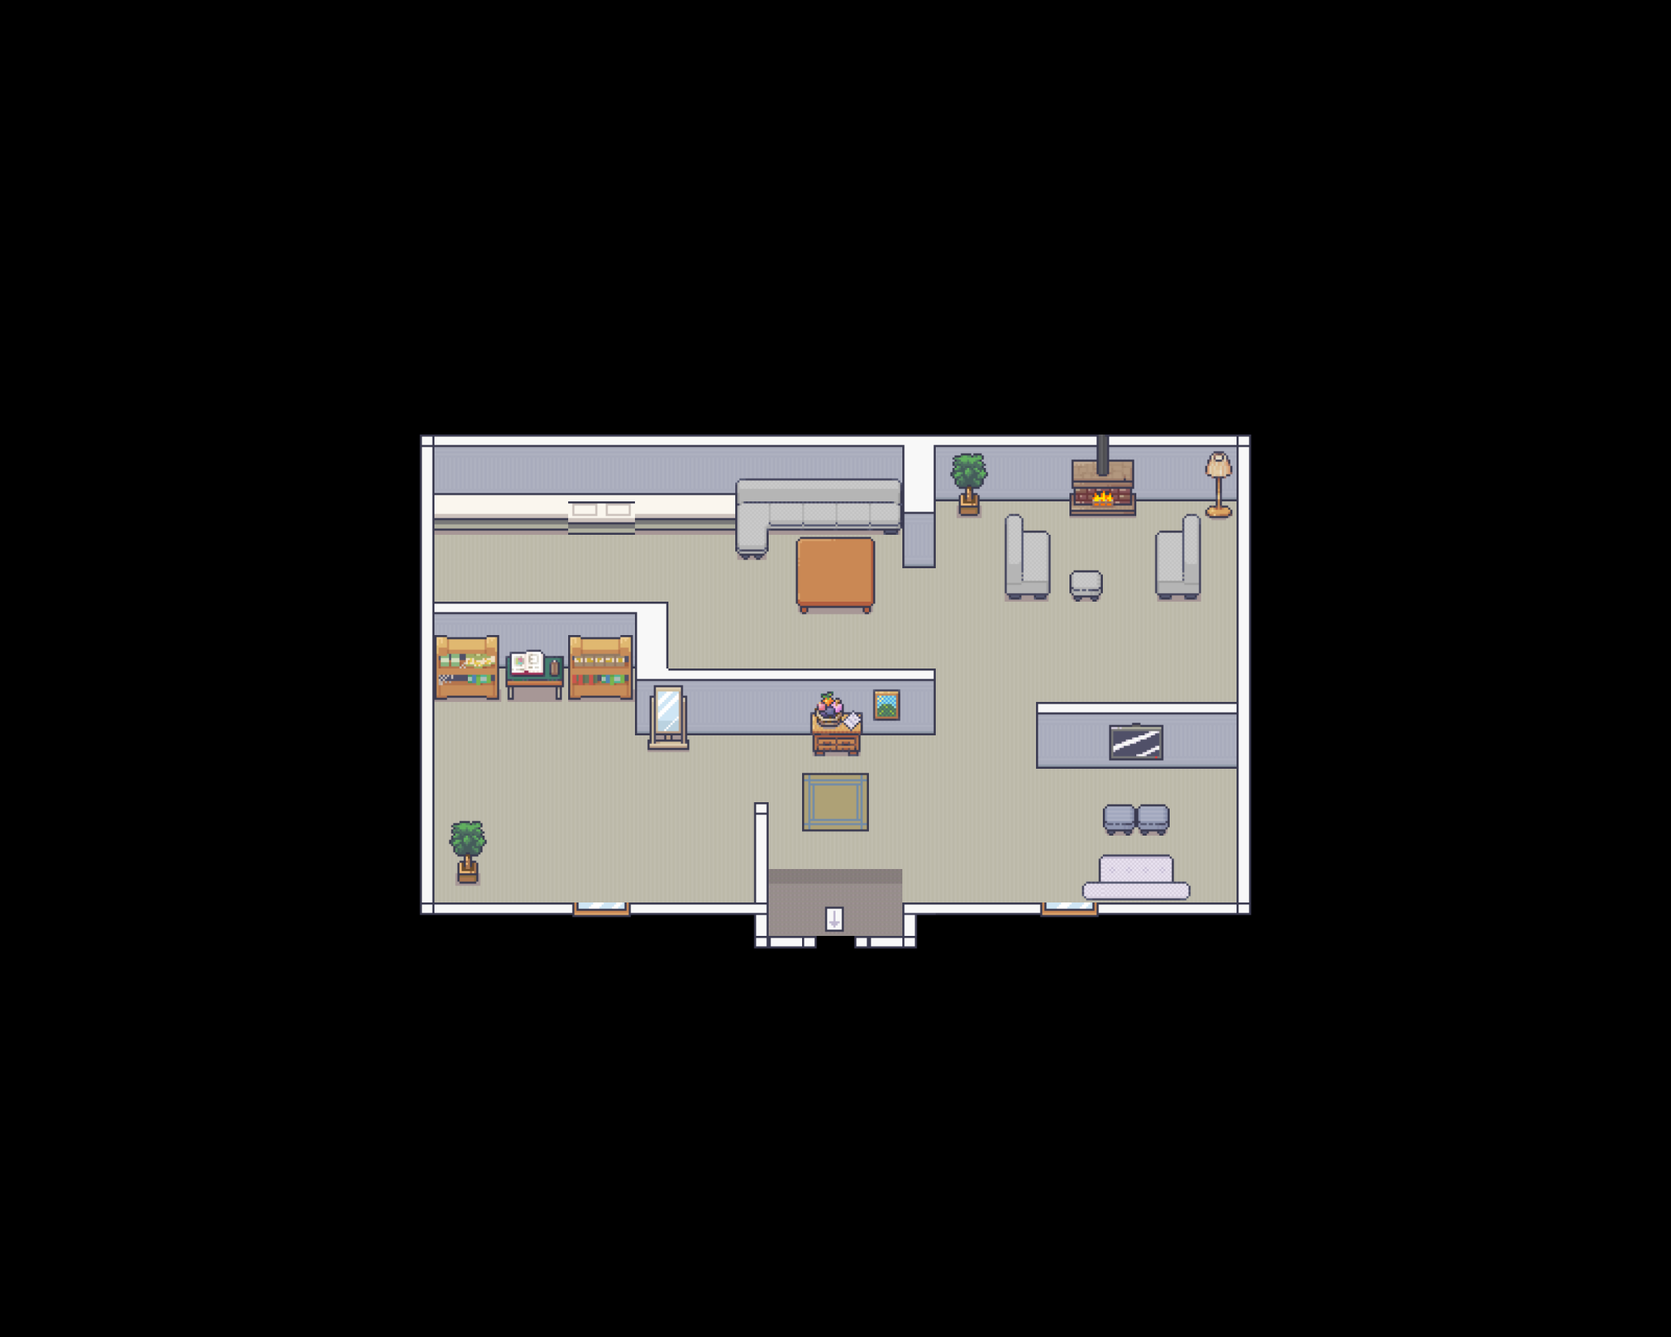
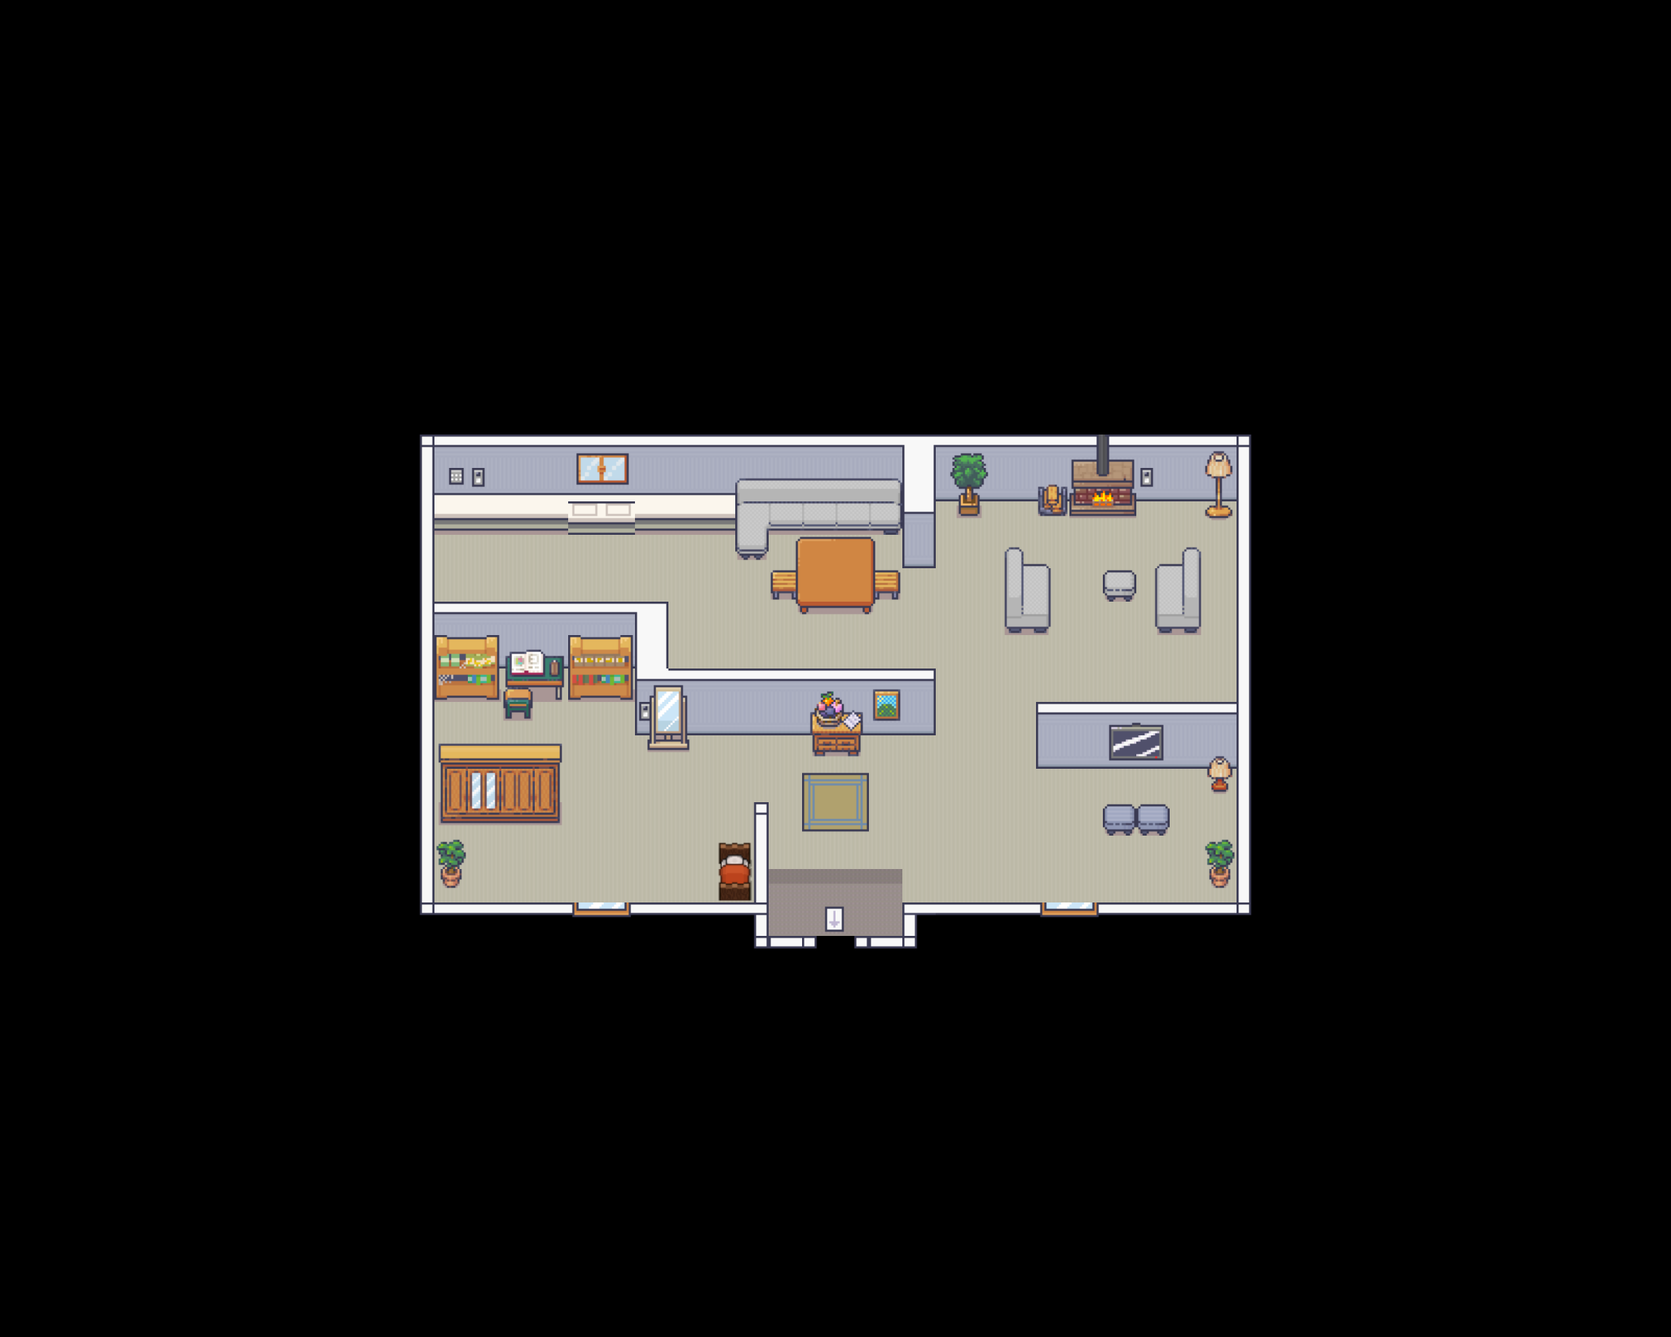
interior borders

diff --git a/index.js b/index.js
@@ -41,7 +41,7 @@ class Boundary {
     }
 
     draw(){
-        c.fillStyle = "rgba(255, 0,0,0)"
+        c.fillStyle = "red"//"rgba(255, 0,0,0)"
         c.fillRect(this.position.x, this.position.y, this.width, this.height)
     }
 }
@@ -109,9 +109,9 @@ collisionsMapInside.forEach((row, i) => {
     row.forEach((symbol, j) => {
         if (symbol == 856){
         indoorBoundaries.push(new Boundary({position: {
-            x: j * 48 +offset.in.x -5,
+            x: j * 48 +offset.in.x -6,
             y: i * 48 + offset.in.y 
-        }, width: 40, height: 40}))}
+        }, width: 42, height: 40}))}
         if (symbol == 1){
             indoorBoundaries.push(new Boundary({position: {
                 x: j * 48 +offset.in.x +5,
@@ -121,8 +121,65 @@ collisionsMapInside.forEach((row, i) => {
             indoorBoundaries.push(new Boundary({position: {
                 x: j * 48 +offset.in.x +20,
                 y: i * 48 + offset.in.y 
-            }, width: 2, height: 40}))}})})
-
+            }, width: 2, height: 40}))}
+         if (symbol == 3){
+            indoorBoundaries.push(new Boundary({position: {
+                x: j * 48 +offset.in.x,
+                y: i * 48 + offset.in.y -20
+            }, width: 40, height: 2}))}
+        if (symbol == 4){
+            indoorBoundaries.push(new Boundary({position: {
+                x: j * 48 +offset.in.x -3,
+                y: i * 48 + offset.in.y 
+            }, width: 31, height: 2}))}
+        if (symbol == 5){
+            indoorBoundaries.push(new Boundary({position: {
+                x: j * 48 +offset.in.x,
+                y: i * 48 + offset.in.y 
+            }, width: 50, height: 60}))}
+        if (symbol == 6){
+            indoorBoundaries.push(new Boundary({position: {
+                x: j * 48 +offset.in.x -22,
+                y: i * 48 + offset.in.y 
+            }, width: 50, height: 60}))}
+        if (symbol == 7){
+            indoorBoundaries.push(new Boundary({position: {
+                x: j * 48 +offset.in.x -20,
+                y: i * 48 + offset.in.y 
+            }, width: 40, height: 2}))}
+        if (symbol == 8){
+            indoorBoundaries.push(new Boundary({position: {
+                x: j * 48 +offset.in.x -5,
+                y: i * 48 + offset.in.y 
+            }, width: 38, height: 2}))}
+        if (symbol == 9){
+            indoorBoundaries.push(new Boundary({position: {
+                x: j * 48 +offset.in.x -15,
+                y: i * 48 + offset.in.y + 5
+            }, width: 105, height: 75}))}
+        if (symbol == 10){
+            indoorBoundaries.push(new Boundary({position: {
+                x: j * 48 +offset.in.x + 20,
+                y: i * 48 + offset.in.y 
+            }, width: 16, height: 40}))}
+         if (symbol == 11){
+            indoorBoundaries.push(new Boundary({position: {
+                x: j * 48 +offset.in.x + 18,
+                y: i * 48 + offset.in.y +2
+            }, width: 40, height: 2}))}
+            
+        if (symbol == 12){
+            indoorBoundaries.push(new Boundary({position: {
+                x: j * 48 +offset.in.x + 18,
+                y: i * 48 + offset.in.y +38
+            }, width: 40, height: 2}))}
+        if (symbol == 13){
+            indoorBoundaries.push(new Boundary({position: {
+                x: j * 48 +offset.in.x -5,
+                y: i * 48 + offset.in.y 
+            }, width: 44, height: 40}))}
+        })})
+            
 class Pokemon {
     constructor({image, position}){
         this.position = position
@@ -219,20 +276,27 @@ const insideBackground = new Sprite ({position:{
     y:offset.in.y  
 }, image: insideImage}) 
 
+const insideForeGround = new Image()
+insideForeGround.src = './img/foregroundInside.png'
+const insideForeground = new Sprite({
+    position: {x:offset.in.x-10,
+    y:offset.in.y  
+}, image: insideForeGround})
+
 const testBoundary = new descriptiveObject({position: {
     x: 17 * 48 +offset.out.x  +40,
     y: 20 * 48 + offset.out.y 
-}, width: 1, height: 40, text: "Lev's island"})
+}, width: 1, height: 40, text: "Lev's Island"})
 
 const sign = new descriptiveObject({position: {
     x: 28 * 48 +offset.out.x + 5,
     y: 17 * 48 + offset.out.y -45
-}, width: 40, height: 2, text: "The Field of Flowers"})
+}, width: 40, height: 2, text: "The Field of Flowers \u2740 \u273F"})
 
 const mailbox = new descriptiveObject({position: {
     x: 20 * 48 +offset.out.x + 10,
     y: 15 * 48 + offset.out.y 
-}, width: 30, height: 2, text: "S + L \&#9829"})
+}, width: 30, height: 2, text: "S + L <br>\u2665"})
 
 const keys = {
     ArrowUp: {
@@ -254,7 +318,7 @@ const door = new Boundary({position: {
     x: 19 * 48 +offset.out.x,
     y: 13 * 48 + offset.out.y 
     
-}, width: 40, height: 45})
+}, width: 40, height: 50})
 
 const doorBoundary = new Boundary({
     position: {
@@ -270,11 +334,11 @@ const openingDoor = new Door({
 })
 const doorToOutside = new Boundary({position: {
     x: 25 * 48 +offset.in.x -10,
-    y: 27 * 48 + offset.in.y -30
+    y: 27 * 48 + offset.in.y -40
     
 }, width: 40, height: 40})
 const objects = [testBoundary, sign, mailbox]
-const movables = [background, ...boundaries, foreground, poke, ...oceans, insideBackground, ...indoorBoundaries, door, doorToOutside, openingDoor,...objects, doorBoundary]
+const movables = [background, ...boundaries, foreground, poke, ...oceans, insideBackground, ...indoorBoundaries, door, doorToOutside, openingDoor,...objects, doorBoundary, insideForeground]
 function rectangularCollision ({rectangle1, rectangle2}){
     return (
         rectangle1.position.x + rectangle1.width >= rectangle2.position.x && 
@@ -284,9 +348,15 @@ function rectangularCollision ({rectangle1, rectangle2}){
     )
 
 }
+const characterLocation = {
+    location: false
+}
+let transitioning = false
 function fade(){
     gsap.to('#transitionImage', {
         opacity: 0, duration:2, onComplete: function() {
+
+            
             // This code will execute when the animation is complete
             console.log("Animation is complete");
         
@@ -296,7 +366,9 @@ function fade(){
 let isTextDisplayed = false;
 class outsideMap {
     draw(){
-        
+        if (transitioning){
+            return
+        }
         background.draw()
    
         c.imageSmoothingEnabled = false
@@ -342,11 +414,14 @@ class outsideMap {
                     x: door.position.x,
                     y: door.position.y +2
                 }}
-            })){
+            })){transitioning = true
+                //player.frames.val = 0
                 gsap.to(('#transitionImage'), {
                     opacity: 1, duration:1, onComplete: function(){fade()
+                        
                         characterLocation.location = true
                         player.image = player.sprites.down
+                        transitioning = false
                         return
                         } 
                 })
@@ -514,7 +589,8 @@ class outsideMap {
         } 
 
         if (!moving) {
-        player.frames.val = 0
+            player.frames.val = 0
+
         }
         
         if (!isTextDisplayed) {
@@ -526,18 +602,20 @@ class outsideMap {
 
 const outside = new outsideMap()
 
-const characterLocation = {
-    location: false
-}
+
 
 class insideMap {
     draw(){
+        if (transitioning){
+            return
+        }
         insideBackground.draw()
         indoorBoundaries.forEach(boundary => {
             boundary.draw()
         })
         playerInside.draw()
-          
+
+        insideForeground.draw()  
         let moving  =  true 
         playerInside.moving = false
         if (keys.ArrowUp.pressed && lastKey=='ArrowUp'){
@@ -557,6 +635,10 @@ class insideMap {
                     break
                 }
             } 
+            if (moving) {
+                // Player is moving, reset the flag
+                isTextDisplayed = false;
+            }
             if (moving){movables.forEach((movable)=>{
                 movable.position.y +=2
             })}
@@ -584,15 +666,21 @@ class insideMap {
                     x: doorToOutside.position.x,
                     y: doorToOutside.position.y +2
                 }}
-            })){
+            })){transitioning = true
+                //player.frames.val = 0
                 gsap.to(('#transitionImage'), {
                     opacity: 1, duration:1, onComplete: function(){fade()
                         characterLocation.location = false
                         playerInside.image = playerInside.sprites.up
+                        transitioning = false
                         return
                         } 
                 })
                
+            }
+            if (moving) {
+                // Player is moving, reset the flag
+                isTextDisplayed = false;
             }
             if (moving){movables.forEach((movable)=>{
                 movable.position.y -=2
@@ -614,6 +702,10 @@ class insideMap {
                     break
                 }
             }
+            if (moving) {
+                // Player is moving, reset the flag
+                isTextDisplayed = false;
+            }
             if (moving){movables.forEach((movable)=>{
                 movable.position.x +=2
             })}
@@ -634,6 +726,10 @@ class insideMap {
                     break
                 }
             }
+            if (moving) {
+                // Player is moving, reset the flag
+                isTextDisplayed = false;
+            }
             if (moving){movables.forEach((movable)=>{
                 movable.position.x -=2
             })}
@@ -642,7 +738,10 @@ class insideMap {
         if (!moving) {
             playerInside.frames.val = 0
         }
-
+        if (!isTextDisplayed) {
+            document.querySelector('#textDiv').style.display = 'none';
+            document.querySelector('#dialogueBox').innerHTML = "";
+        }
 
     }
 }
@@ -650,7 +749,7 @@ const inside = new insideMap()
 function animate(){
     window.requestAnimationFrame(animate)
 
-
+    
     if (characterLocation.location == false){
        
         outside.draw()

diff --git a/indoorCollisions.js b/indoorCollisions.js
@@ -1,4 +1,4 @@
-const indoorCollisions = [0, 0, 0, 0, 0, 0, 0, 0, 0, 0, 0, 0, 0, 0, 0, 0, 0, 0, 0, 0, 0, 0, 0, 0, 0, 0, 0, 0, 0, 0, 0, 0, 0, 0, 0, 0, 0, 0, 0, 0, 0, 0, 0, 0, 0, 0, 0, 0, 0, 0,
+const indoorCollisions =  [0, 0, 0, 0, 0, 0, 0, 0, 0, 0, 0, 0, 0, 0, 0, 0, 0, 0, 0, 0, 0, 0, 0, 0, 0, 0, 0, 0, 0, 0, 0, 0, 0, 0, 0, 0, 0, 0, 0, 0, 0, 0, 0, 0, 0, 0, 0, 0, 0, 0,
     0, 0, 0, 0, 0, 0, 0, 0, 0, 0, 0, 0, 0, 0, 0, 0, 0, 0, 0, 0, 0, 0, 0, 0, 0, 0, 0, 0, 0, 0, 0, 0, 0, 0, 0, 0, 0, 0, 0, 0, 0, 0, 0, 0, 0, 0, 0, 0, 0, 0,
     0, 0, 0, 0, 0, 0, 0, 0, 0, 0, 0, 0, 0, 0, 0, 0, 0, 0, 0, 0, 0, 0, 0, 0, 0, 0, 0, 0, 0, 0, 0, 0, 0, 0, 0, 0, 0, 0, 0, 0, 0, 0, 0, 0, 0, 0, 0, 0, 0, 0,
     0, 0, 0, 0, 0, 0, 0, 0, 0, 0, 0, 0, 0, 0, 0, 0, 0, 0, 0, 0, 0, 0, 0, 0, 0, 0, 0, 0, 0, 0, 0, 0, 0, 0, 0, 0, 0, 0, 0, 0, 0, 0, 0, 0, 0, 0, 0, 0, 0, 0,
@@ -11,23 +11,23 @@ const indoorCollisions = [0, 0, 0, 0, 0, 0, 0, 0, 0, 0, 0, 0, 0, 0, 0, 0, 0, 0, 
     0, 0, 0, 0, 0, 0, 0, 0, 0, 0, 0, 0, 0, 0, 0, 0, 0, 0, 0, 0, 0, 0, 0, 0, 0, 0, 0, 0, 0, 0, 0, 0, 0, 0, 0, 0, 0, 0, 0, 0, 0, 0, 0, 0, 0, 0, 0, 0, 0, 0,
     0, 0, 0, 0, 0, 0, 0, 0, 0, 0, 0, 0, 0, 0, 0, 0, 0, 0, 0, 0, 0, 0, 0, 0, 0, 0, 0, 0, 0, 0, 0, 0, 0, 0, 0, 0, 0, 0, 0, 0, 0, 0, 0, 0, 0, 0, 0, 0, 0, 0,
     0, 0, 0, 0, 0, 0, 0, 0, 0, 0, 0, 0, 0, 0, 0, 0, 0, 0, 0, 0, 0, 0, 0, 0, 0, 0, 0, 0, 0, 0, 0, 0, 0, 0, 0, 0, 0, 0, 0, 0, 0, 0, 0, 0, 0, 0, 0, 0, 0, 0,
-    0, 0, 0, 0, 0, 0, 0, 0, 0, 0, 0, 0, 856, 0, 0, 0, 0, 0, 0, 0, 0, 0, 0, 0, 0, 0, 0, 0, 0, 0, 0, 0, 0, 0, 0, 0, 0, 0, 0, 0, 0, 0, 0, 0, 0, 0, 0, 0, 0, 0,
-    0, 0, 0, 0, 0, 0, 0, 0, 0, 0, 0, 0, 856, 0, 0, 0, 0, 0, 0, 0, 0, 0, 0, 0, 0, 0, 0, 0, 856, 856, 856, 856, 856, 856, 856, 856, 856, 0, 0, 0, 0, 0, 0, 0, 0, 0, 0, 0, 0, 0,
-    0, 0, 0, 0, 0, 0, 0, 0, 0, 0, 0, 0, 856, 856, 856, 856, 856, 856, 856, 856, 856, 856, 0, 856, 856, 856, 856, 0, 0, 0, 0, 0, 0, 0, 0, 0, 0, 856, 0, 0, 0, 0, 0, 0, 0, 0, 0, 0, 0, 0,
-    0, 0, 0, 0, 0, 0, 0, 0, 0, 0, 0, 0, 856, 0, 0, 0, 0, 0, 0, 0, 0, 0, 856, 0, 856, 856, 0, 856, 0, 0, 856, 0, 0, 0, 0, 856, 0, 856, 0, 0, 0, 0, 0, 0, 0, 0, 0, 0, 0, 0,
-    0, 0, 0, 0, 0, 0, 0, 0, 0, 0, 0, 0, 856, 0, 0, 0, 0, 0, 0, 0, 0, 0, 0, 0, 856, 856, 0, 0, 0, 0, 856, 0, 856, 0, 0, 856, 0, 856, 0, 0, 0, 0, 0, 0, 0, 0, 0, 0, 0, 0,
-    0, 0, 0, 0, 0, 0, 0, 0, 0, 0, 0, 0, 856, 856, 856, 856, 856, 856, 856, 856, 0, 0, 0, 0, 0, 0, 0, 0, 0, 0, 0, 0, 0, 0, 0, 0, 0, 856, 0, 0, 0, 0, 0, 0, 0, 0, 0, 0, 0, 0,
-    0, 0, 0, 0, 0, 0, 0, 0, 0, 0, 0, 0, 856, 856, 856, 856, 856, 856, 856, 856, 0, 0, 0, 0, 0, 0, 0, 0, 0, 0, 0, 0, 0, 0, 0, 0, 0, 856, 0, 0, 0, 0, 0, 0, 0, 0, 0, 0, 0, 0,
-    0, 0, 0, 0, 0, 0, 0, 0, 0, 0, 0, 0, 856, 0, 0, 0, 0, 0, 0, 856, 856, 856, 856, 856, 856, 856, 856, 856, 0, 0, 0, 0, 0, 0, 0, 0, 0, 856, 0, 0, 0, 0, 0, 0, 0, 0, 0, 0, 0, 0,
-    0, 0, 0, 0, 0, 0, 0, 0, 0, 0, 0, 0, 856, 0, 0, 0, 0, 0, 0, 0, 0, 0, 0, 0, 856, 856, 0, 0, 0, 0, 0, 0, 0, 0, 0, 0, 0, 856, 0, 0, 0, 0, 0, 0, 0, 0, 0, 0, 0, 0,
-    0, 0, 0, 0, 0, 0, 0, 0, 0, 0, 0, 0, 856, 0, 0, 0, 0, 0, 0, 0, 0, 0, 0, 0, 0, 0, 0, 0, 0, 0, 0, 856, 856, 856, 856, 856, 856, 856, 0, 0, 0, 0, 0, 0, 0, 0, 0, 0, 0, 0,
+    0, 0, 0, 0, 0, 0, 0, 0, 0, 0, 0, 0, 856, 0, 0, 0, 0, 0, 0, 0, 0, 0, 0, 0, 0, 0, 0, 0, 856, 856, 856, 856, 0, 0, 856, 856, 0, 0, 0, 0, 0, 0, 0, 0, 0, 0, 0, 0, 0, 0,
+    0, 0, 0, 0, 0, 0, 0, 0, 0, 0, 0, 0, 856, 856, 856, 856, 856, 0, 0, 856, 856, 856, 0, 856, 856, 856, 856, 856, 2, 1, 7, 856, 856, 856, 4, 4, 856, 0, 0, 0, 0, 0, 0, 0, 0, 0, 0, 0, 0, 0,
+    0, 0, 0, 0, 0, 0, 0, 0, 0, 0, 0, 0, 856, 0, 0, 0, 0, 4, 4, 0, 0, 0, 856, 0, 0, 0, 0, 856, 0, 0, 0, 0, 0, 0, 0, 0, 0, 856, 0, 0, 0, 0, 0, 0, 0, 0, 0, 0, 0, 0,
+    0, 0, 0, 0, 0, 0, 0, 0, 0, 0, 0, 0, 856, 0, 0, 0, 0, 0, 0, 0, 0, 0, 0, 0, 9, 0, 0, 8, 0, 0, 0, 0, 0, 0, 0, 0, 0, 856, 0, 0, 0, 0, 0, 0, 0, 0, 0, 0, 0, 0,
+    0, 0, 0, 0, 0, 0, 0, 0, 0, 0, 0, 0, 856, 0, 0, 0, 0, 0, 0, 0, 0, 0, 0, 0, 0, 0, 0, 0, 0, 0, 5, 0, 0, 4, 0, 6, 0, 856, 0, 0, 0, 0, 0, 0, 0, 0, 0, 0, 0, 0,
     0, 0, 0, 0, 0, 0, 0, 0, 0, 0, 0, 0, 856, 0, 0, 0, 0, 0, 0, 0, 0, 0, 0, 0, 0, 0, 0, 0, 0, 0, 0, 0, 0, 0, 0, 0, 0, 856, 0, 0, 0, 0, 0, 0, 0, 0, 0, 0, 0, 0,
-    0, 0, 0, 0, 0, 0, 0, 0, 0, 0, 0, 0, 856, 0, 0, 0, 0, 0, 0, 0, 0, 0, 856, 0, 0, 0, 0, 0, 0, 0, 0, 0, 0, 856, 856, 0, 0, 856, 0, 0, 0, 0, 0, 0, 0, 0, 0, 0, 0, 0,
-    0, 0, 0, 0, 0, 0, 0, 0, 0, 0, 0, 0, 856, 0, 0, 0, 0, 0, 0, 0, 0, 0, 856, 0, 0, 0, 0, 0, 0, 0, 0, 0, 0, 0, 0, 0, 0, 856, 0, 0, 0, 0, 0, 0, 0, 0, 0, 0, 0, 0,
-    0, 0, 0, 0, 0, 0, 0, 0, 0, 0, 0, 0, 856, 0, 0, 0, 0, 0, 0, 0, 0, 0, 856, 0, 0, 0, 0, 0, 0, 0, 0, 0, 0, 856, 856, 0, 0, 856, 0, 0, 0, 0, 0, 0, 0, 0, 0, 0, 0, 0,
+    0, 0, 0, 0, 0, 0, 0, 0, 0, 0, 0, 0, 856, 856, 856, 856, 856, 856, 856, 13, 0, 0, 0, 0, 0, 0, 0, 0, 0, 0, 0, 0, 0, 0, 0, 0, 0, 856, 0, 0, 0, 0, 0, 0, 0, 0, 0, 0, 0, 0,
+    0, 0, 0, 0, 0, 0, 0, 0, 0, 0, 0, 0, 856, 4, 4, 0, 0, 4, 4, 13, 0, 0, 0, 0, 0, 0, 0, 0, 0, 0, 0, 0, 0, 0, 0, 0, 0, 856, 0, 0, 0, 0, 0, 0, 0, 0, 0, 0, 0, 0,
+    0, 0, 0, 0, 0, 0, 0, 0, 0, 0, 0, 0, 856, 0, 0, 0, 0, 0, 0, 856, 856, 4, 4, 4, 13, 856, 4, 8, 0, 0, 0, 0, 0, 0, 0, 0, 0, 856, 0, 0, 0, 0, 0, 0, 0, 0, 0, 0, 0, 0,
+    0, 0, 0, 0, 0, 0, 0, 0, 0, 0, 0, 0, 856, 0, 0, 0, 0, 0, 0, 0, 0, 0, 0, 0, 0, 0, 0, 0, 0, 0, 0, 8, 4, 4, 4, 4, 856, 856, 0, 0, 0, 0, 0, 0, 0, 0, 0, 0, 0, 0,
+    0, 0, 0, 0, 0, 0, 0, 0, 0, 0, 0, 0, 856, 856, 856, 856, 856, 0, 0, 0, 0, 0, 0, 0, 0, 0, 0, 0, 0, 0, 0, 0, 0, 0, 0, 0, 0, 856, 0, 0, 0, 0, 0, 0, 0, 0, 0, 0, 0, 0,
+    0, 0, 0, 0, 0, 0, 0, 0, 0, 0, 0, 0, 856, 0, 0, 0, 0, 0, 0, 0, 0, 0, 10, 0, 0, 0, 0, 0, 0, 0, 0, 0, 0, 4, 4, 0, 0, 856, 0, 0, 0, 0, 0, 0, 0, 0, 0, 0, 0, 0,
+    0, 0, 0, 0, 0, 0, 0, 0, 0, 0, 0, 0, 856, 0, 0, 0, 0, 0, 0, 0, 0, 11, 10, 0, 0, 0, 0, 0, 0, 0, 0, 0, 0, 0, 0, 0, 0, 856, 0, 0, 0, 0, 0, 0, 0, 0, 0, 0, 0, 0,
+    0, 0, 0, 0, 0, 0, 0, 0, 0, 0, 0, 0, 856, 856, 0, 0, 0, 0, 0, 0, 0, 12, 10, 0, 0, 0, 0, 0, 0, 0, 0, 0, 0, 0, 0, 0, 856, 856, 0, 0, 0, 0, 0, 0, 0, 0, 0, 0, 0, 0,
     0, 0, 0, 0, 0, 0, 0, 0, 0, 0, 0, 0, 0, 856, 856, 856, 856, 856, 856, 856, 856, 856, 856, 0, 0, 0, 0, 856, 856, 856, 856, 856, 856, 856, 856, 856, 856, 0, 0, 0, 0, 0, 0, 0, 0, 0, 0, 0, 0, 0,
     0, 0, 0, 0, 0, 0, 0, 0, 0, 0, 0, 0, 0, 0, 0, 0, 0, 0, 0, 0, 0, 0, 0, 856, 1, 2, 856, 0, 0, 0, 0, 0, 0, 0, 0, 0, 0, 0, 0, 0, 0, 0, 0, 0, 0, 0, 0, 0, 0, 0,
-    0, 0, 0, 0, 0, 0, 0, 0, 0, 0, 0, 0, 0, 0, 0, 0, 0, 0, 0, 0, 0, 0, 0, 0, 0, 856, 856, 0, 0, 0, 0, 0, 0, 0, 0, 0, 0, 0, 0, 0, 0, 0, 0, 0, 0, 0, 0, 0, 0, 0,
+    0, 0, 0, 0, 0, 0, 0, 0, 0, 0, 0, 0, 0, 0, 0, 0, 0, 0, 0, 0, 0, 0, 0, 0, 3, 3, 0, 0, 0, 0, 0, 0, 0, 0, 0, 0, 0, 0, 0, 0, 0, 0, 0, 0, 0, 0, 0, 0, 0, 0,
     0, 0, 0, 0, 0, 0, 0, 0, 0, 0, 0, 0, 0, 0, 0, 0, 0, 0, 0, 0, 0, 0, 0, 0, 0, 0, 0, 0, 0, 0, 0, 0, 0, 0, 0, 0, 0, 0, 0, 0, 0, 0, 0, 0, 0, 0, 0, 0, 0, 0,
     0, 0, 0, 0, 0, 0, 0, 0, 0, 0, 0, 0, 0, 0, 0, 0, 0, 0, 0, 0, 0, 0, 0, 0, 0, 0, 0, 0, 0, 0, 0, 0, 0, 0, 0, 0, 0, 0, 0, 0, 0, 0, 0, 0, 0, 0, 0, 0, 0, 0,
     0, 0, 0, 0, 0, 0, 0, 0, 0, 0, 0, 0, 0, 0, 0, 0, 0, 0, 0, 0, 0, 0, 0, 0, 0, 0, 0, 0, 0, 0, 0, 0, 0, 0, 0, 0, 0, 0, 0, 0, 0, 0, 0, 0, 0, 0, 0, 0, 0, 0,

diff --git a/index.html b/index.html
@@ -15,12 +15,12 @@
 
 <div style="display: inline-block; position: relative; ">
     <div id="transitionImage" style="background-color: black; position: absolute; top: 0; bottom: 0; left: 0; right: 0; pointer-events: none; opacity: 0;"></div>
-    <div id="overlapping" style="background-image: url('./img/bground.png'); position: absolute; top: 5; right: 2; width: 64; height: 64; text-align: center;   display: flex;
+    <div id="overlapping" style="background-image: url('./img/bground.png'); position: absolute; top: 4; right: 4; width: 64; height: 64; text-align: center;   display: flex;
     align-items: center;
     justify-content: center;">  
         <img id="image" src="./img/speakerOff.png" alt="Image" >
     </div>
-    <div id="skip" style="background-image: url('./img/bground.png'); width: 64; height: 64; position: absolute; top: 72; right: 2; text-align: center;   display: flex;
+    <div id="skip" style="background-image: url('./img/bground.png'); width: 64; height: 64; position: absolute; top: 72; right: 4; text-align: center;   display: flex;
     align-items: center;
     justify-content: center;">
         <img id="skipButton" src="./img/skipButton.png" alt="Image" >
@@ -30,9 +30,9 @@
         <img id="titlePage" src="./img/titlePage.png" alt="Image">
       </div>
     <canvas></canvas>
-    <div id="textDiv" style="position: absolute; left: 50%; bottom: 2; transform: translate(-50%);  text-align: center; display: none;"> 
+    <div id="textDiv" style="position: absolute; left: 50%; bottom: 4; transform: translate(-50%);  text-align: center; display: none;"> 
         <img id="textBox" src="./img/textBox.png" alt="Image" >
-        <div  id="dialogueBox" style="position: absolute; left: 50%;  top: 50%; transform: translate(-50%, -50%);   text-align: center;font-size: 14px;">
+        <div  id="dialogueBox" style="position: absolute; left: 50%;  top: 50%; transform: translate(-50%, -50%);   text-align: center;font-size: 16px;">
       
         </div>
 

diff --git a/collisions.js b/collisions.js
@@ -11,8 +11,8 @@ const collisions = [0, 0, 0, 0, 0, 0, 0, 0, 0, 0, 0, 0, 0, 0, 0, 0, 0, 0, 0, 0, 
     0, 0, 0, 0, 0, 0, 0, 0, 0, 0, 0, 0, 0, 0, 0, 0, 0, 0, 0, 0, 0, 0, 0, 0, 0, 0, 0, 0, 0, 0, 0, 0, 0, 0, 0, 0, 0, 0, 0, 0, 0, 0, 0, 0, 0, 0, 0, 0, 0, 0,
     0, 0, 0, 0, 0, 0, 0, 0, 0, 0, 0, 0, 0, 0, 0, 0, 0, 0, 0, 0, 0, 0, 0, 0, 0, 0, 0, 0, 0, 0, 0, 0, 0, 0, 0, 0, 0, 0, 0, 0, 0, 0, 0, 0, 0, 0, 0, 0, 0, 0,
     0, 0, 0, 0, 0, 0, 0, 0, 0, 0, 0, 0, 0, 0, 2, 2, 0, 0, 0, 0, 0, 0, 0, 0, 0, 0, 0, 0, 0, 0, 0, 0, 0, 0, 0, 0, 0, 0, 0, 0, 0, 0, 0, 0, 0, 0, 0, 0, 0, 0,
-    0, 0, 0, 0, 0, 0, 0, 0, 0, 0, 0, 0, 0, 856, 0, 0, 856, 0, 0, 856, 0, 0, 0, 0, 0, 0, 0, 0, 0, 0, 0, 0, 0, 0, 0, 0, 0, 0, 0, 0, 0, 0, 0, 0, 0, 0, 0, 0, 0, 0,
-    0, 0, 0, 0, 0, 0, 0, 0, 0, 0, 0, 0, 0, 856, 0, 0, 856, 0, 0, 0, 0, 0, 0, 2, 2, 0, 0, 0, 2, 2, 0, 0, 2, 0, 0, 0, 0, 0, 0, 0, 0, 0, 0, 0, 0, 0, 0, 0, 0, 0,
+    0, 0, 0, 0, 0, 0, 0, 0, 0, 0, 0, 0, 0, 856, 0, 0, 856, 0, 0, 0, 0, 0, 0, 0, 0, 0, 0, 0, 0, 0, 0, 0, 0, 0, 0, 0, 0, 0, 0, 0, 0, 0, 0, 0, 0, 0, 0, 0, 0, 0,
+    0, 0, 0, 0, 0, 0, 0, 0, 0, 0, 0, 0, 0, 856, 0, 0, 856, 0, 0, 2, 0, 0, 0, 2, 2, 0, 0, 0, 2, 2, 0, 0, 2, 0, 0, 0, 0, 0, 0, 0, 0, 0, 0, 0, 0, 0, 0, 0, 0, 0,
     0, 0, 0, 0, 0, 0, 0, 0, 0, 0, 0, 0, 0, 856, 0, 0, 856, 0, 2, 0, 0, 2, 856, 0, 0, 856, 856, 856, 0, 0, 2, 2, 0, 2, 2, 2, 0, 0, 0, 0, 0, 0, 0, 0, 0, 0, 0, 0, 0, 0,
     0, 0, 0, 0, 0, 0, 0, 0, 0, 0, 0, 0, 0, 856, 0, 0, 2, 856, 0, 0, 0, 0, 856, 0, 0, 0, 0, 0, 0, 0, 0, 0, 0, 0, 0, 0, 2, 2, 0, 0, 0, 0, 0, 0, 0, 0, 0, 0, 0, 0,
     0, 0, 0, 0, 0, 0, 0, 0, 0, 0, 0, 0, 0, 856, 0, 0, 0, 856, 0, 0, 0, 0, 856, 0, 0, 0, 0, 0, 0, 0, 0, 0, 0, 0, 0, 0, 0, 0, 856, 0, 0, 0, 0, 0, 0, 0, 0, 0, 0, 0,
